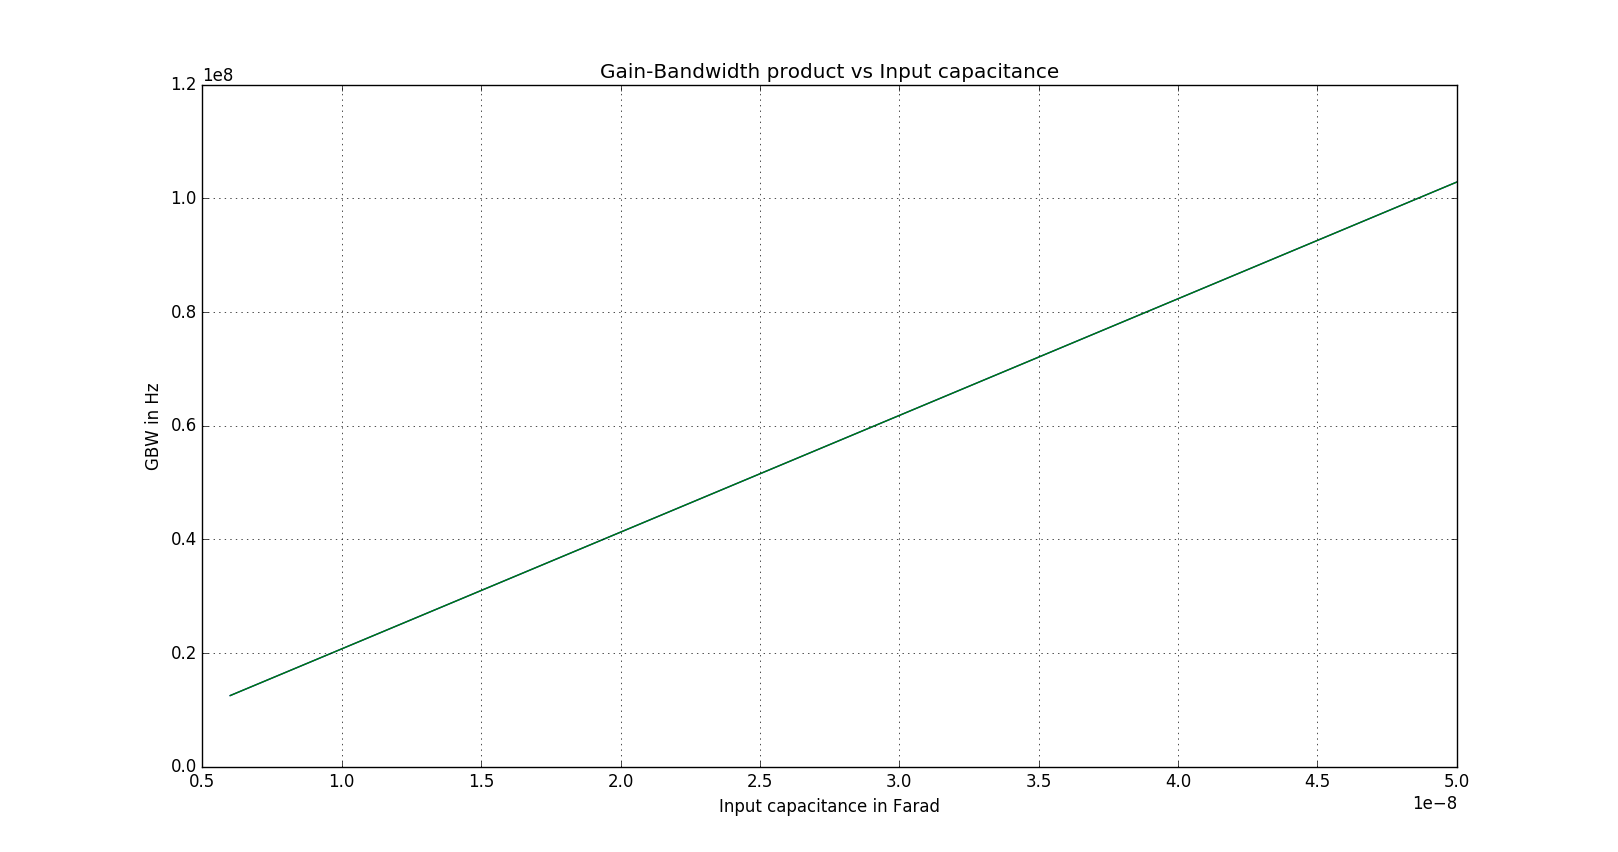
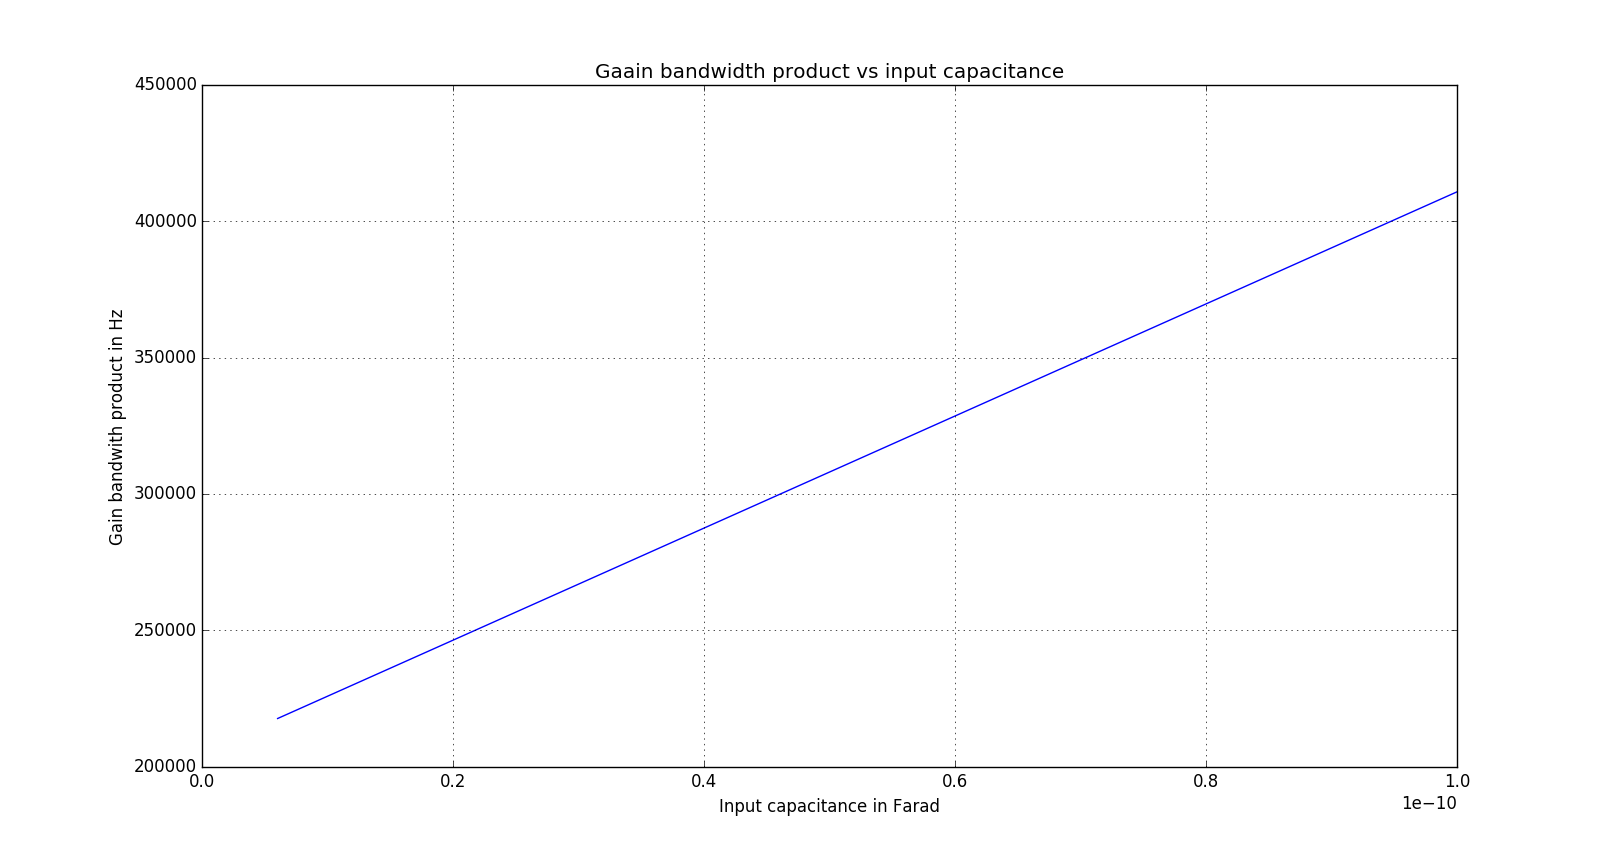
Corrected errors on GBW product from 100MHz required

diff --git a/design-docs/GBW.py b/design-docs/GBW.py
@@ -7,7 +7,7 @@ import numpy as np
 import matplotlib.pyplot as plt
 
 #linear space(start(6pF),end(50pF),numpoints)
-Cin=np.linspace(6e-9,50e-9,10000)
+Cin=np.linspace(6e-12,100e-12,10000)
 
 #Actual calculation
 GBW=(Cin+0.1e-9)/(2*np.pi*7.75e3*np.square(0.1e-9))
